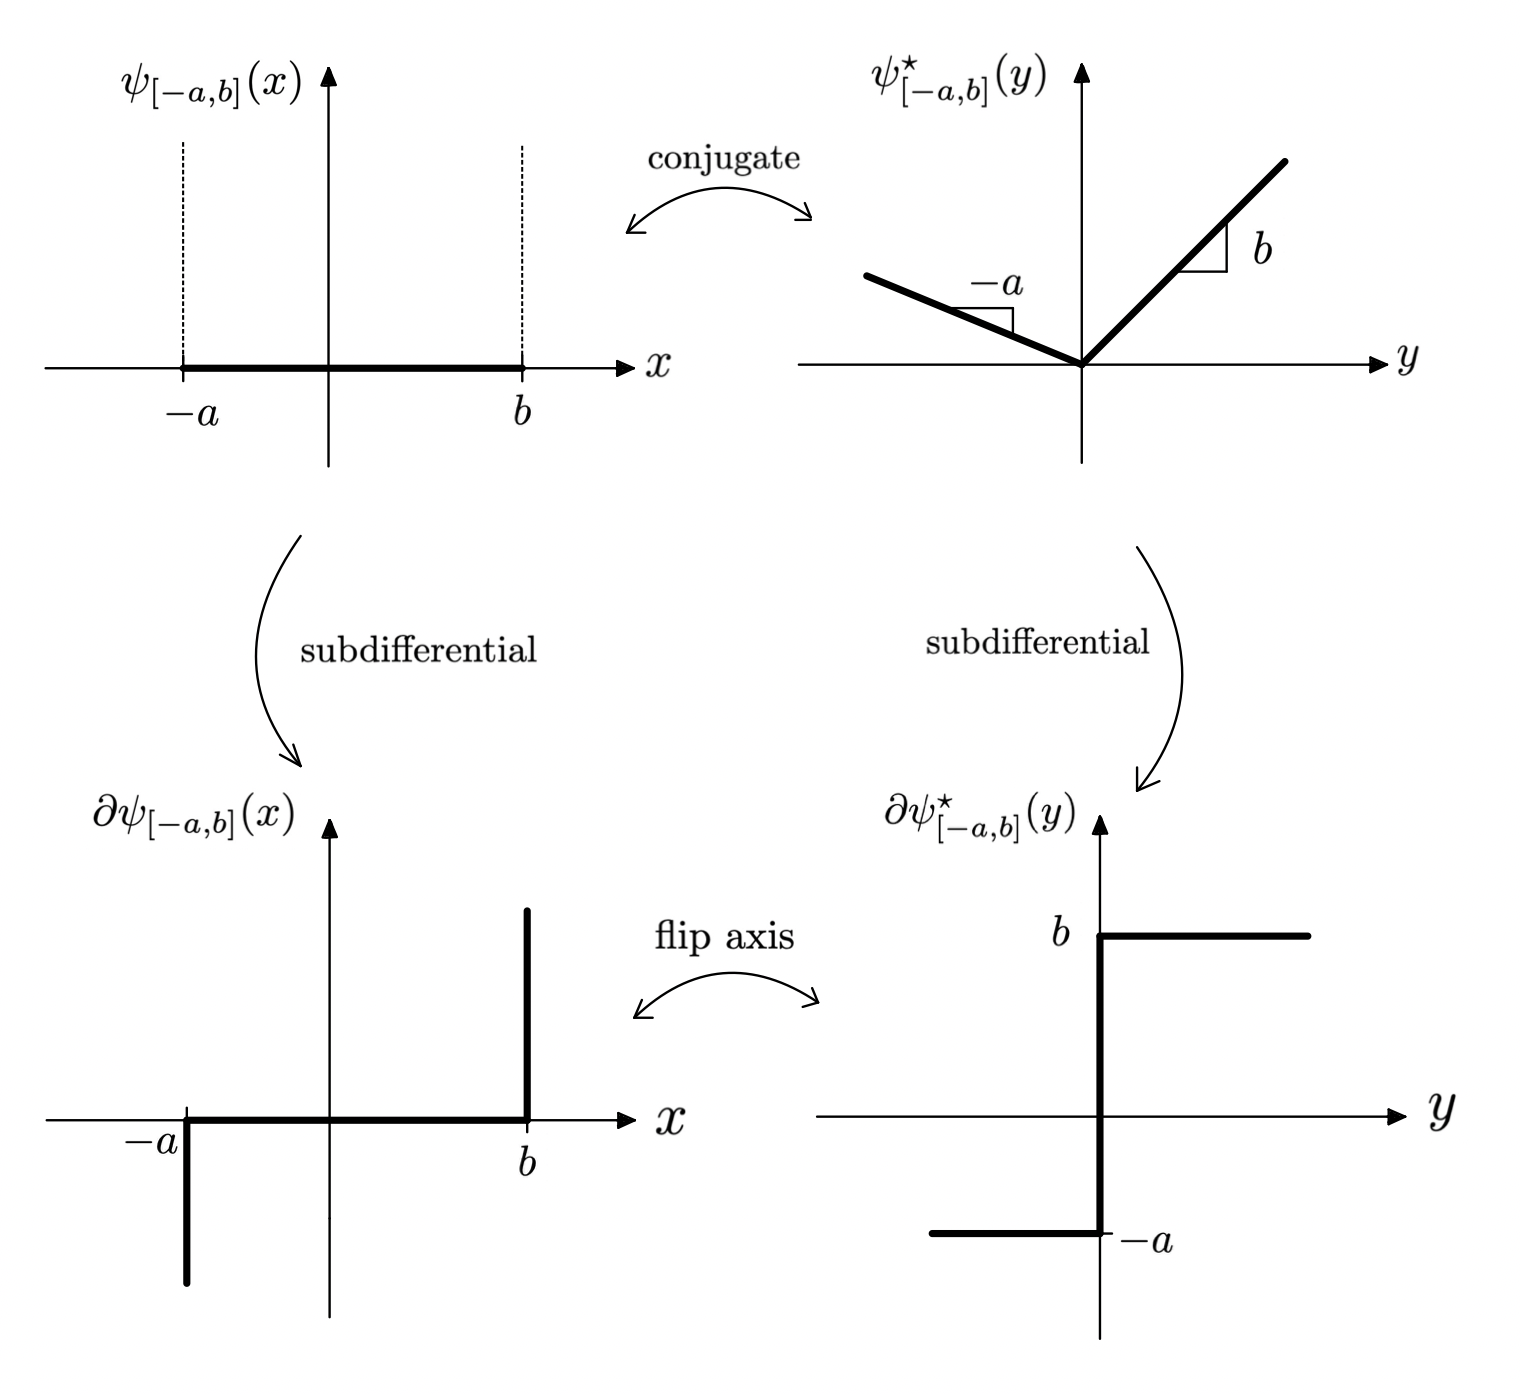
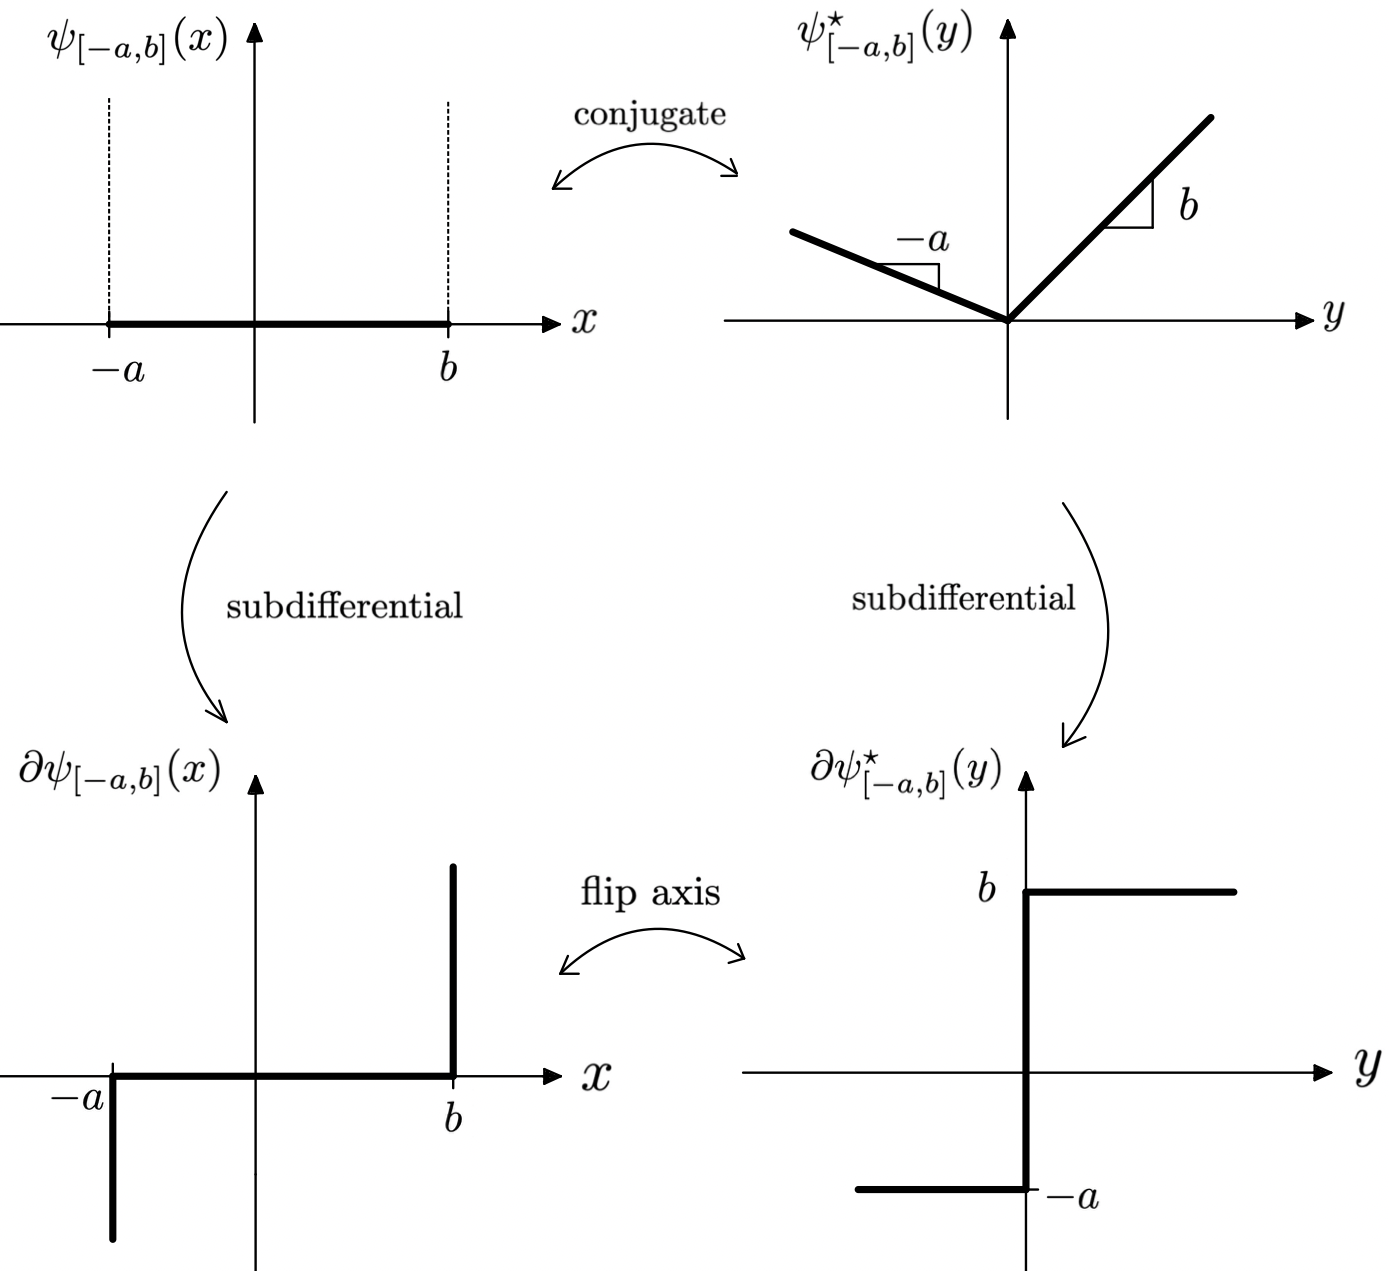
final exam

diff --git a/sections/s3-kkt-lagrange-duality.tex b/sections/s3-kkt-lagrange-duality.tex
@@ -1,17 +1,17 @@
 \section{KKT and Lagrange Duality}
 
-Basic 2d Example for derivation:
-$\min _{x \in \mathbb{R}^2} f(x)$ s.t. $h(x)=0$
-$\rightarrow$
-$\nabla f(x^\star)$, $\nabla h(x^\star)$
-co-linear
-$\Leftrightarrow$
-$\exists\ \nu^\star \in \mathbb{R}: \nabla f(x^\star)+\nu^\star\nabla h(x^\star) = 0$
-$\Leftrightarrow$
-$f(x)+\nu^\star h(x)$ is stationary at $x^\star$
-
-\subsection{Generalization for $n\rightarrow\infty$ and with constraints}
-\vspace{-5mm}
+% Basic 2d Example for derivation:
+% $\min _{x \in \mathbb{R}^2} f(x)$ s.t. $h(x)=0$
+% $\rightarrow$
+% $\nabla f(x^\star)$, $\nabla h(x^\star)$
+% co-linear
+% $\Leftrightarrow$
+% $\exists\ \nu^\star \in \mathbb{R}: \nabla f(x^\star)+\nu^\star\nabla h(x^\star) = 0$
+% $\Leftrightarrow$
+% $f(x)+\nu^\star h(x)$ is stationary at $x^\star$
+%
+% \subsection{Generalization for $n\rightarrow\infty$ and with constraints}
+\vspace{-4mm}
 \begin{equation}
 	\text{We consider}\
 	f^\star = \inf_{x\in\mathcal{\mathbb{R}}^n}f(x)
@@ -66,8 +66,7 @@ $$\begin{aligned}
 			 & \text{(dual feasibility)}
 			\\
 			 & \lambda^{\star T} g(x^\star)=0=\nu^{\star T} h(x^\star)
-			 &
-			\text{KKT-4 }
+			 & \text{KKT-4 }
 			 & \text{(compementary slackness)}
 			\\
 		\end{aligned}$$
@@ -97,8 +96,6 @@ $f(x)\ge f(\bar{x})+\nabla f(\bar{x})\T(x-\bar{x}),\ \forall x,\bar{x}\in \mathb
 	\label{def:subdifferential}
 \end{definition}
 
-%TODO: subdifferential example?
-
 \begin{proposition}[]
 	$f$ (like D\ref{def:subdifferential}),
 	$x^\star\in\argmin_x f(x)
@@ -111,4 +108,6 @@ $f(x)\ge f(\bar{x})+\nabla f(\bar{x})\T(x-\bar{x}),\ \forall x,\bar{x}\in \mathb
 	$y \in \partial f(x) \leftrightarrow x \in \partial f^\star(y)$
 \end{proposition}
 
-\includegraphics[width=\columnwidth]{images/conjugate_subdiff.png}
+\begin{flushright}
+	\includegraphics[width=0.92\columnwidth]{images/conjugate_subdiff.png}
+\end{flushright}

diff --git a/sections/s2-convex-set-function.tex b/sections/s2-convex-set-function.tex
@@ -2,10 +2,13 @@
 
 \begin{definition}[Convex Set]
 	A set $\mathcal{C}$ is convex if and only if
-	$\theta x + (1-\theta)y \in \mathcal{C}$,
-	$\forall\ x,y \in \mathcal{C}$,
-	$\forall\ \theta \in [0,1]$
+	\vspace{-1mm}
+	$$\theta x + (1-\theta)y \in \mathcal{C}
+		\forall\ x,y \in \mathcal{C},\quad
+		\forall\ \theta \in [0,1]$$
+	\vspace{-3mm}
 \end{definition}
+\vspace{-1mm}
 
 (hyperplane $\parallel$ half-space)
 $\{x \in \mathbb{R}^n \mid a\T x(=\parallel\le)b\}$
@@ -45,15 +48,12 @@ $\Rightarrow \{x\in\mathbb{R}^{n} \mid  Ax+b\in\mathcal{C}\}$ cv
 
 \textbf{Idea} represent any cl,cv set by its supporting hyperplanes
 \[\begin{aligned}
-		\vspace{-2mm}
 		\sigma_\mathcal{C}(a) & = \sup_{x \in \mathcal{C}}a\T x
 		\quad\text{if known, one can construct}                                                                                                        \\
-		\vspace{-2mm}
 		\mathcal{C}           & = \bigcap_{a \in \mathbb{R}^n} \{x \in \mathbb{R}^n \mid a\T x - \sigma_c(a) \leq 0\}                                  \\
-		\vspace{-2mm}
 		                      & = \{x \in \mathbb{R}^n \mid \underset{a \in \mathbb{R}^{n}}{\operatorname{sup}}\ a\T x - \sigma_\mathcal{C}(a) \le 0\}
-		\vspace{-2mm}
 	\end{aligned}\]
+\vspace{-2mm}
 
 \begin{definition}
 	$f:\mathbb{R}^n \rightarrow \mathbb{R}$ cv
@@ -112,8 +112,6 @@ $\Rightarrow$
 maximizer of sup satisfies
 $\nabla_x f^* = 0$
 
-\includegraphics[width=\columnwidth]{images/summary_set_functions.png}
-
 \begin{theorem}[Conjugate of Conjugate]
 	$f:\mathbb{R}^{n}\rightarrow\bar{\mathbb{R}}$
 
@@ -122,3 +120,5 @@ $\nabla_x f^* = 0$
 
 	(ii) $f(x)\ge f^{**}(x), \forall x\in\mathbb{R}^{n}$
 \end{theorem}
+
+\includegraphics[width=\columnwidth]{images/summary_set_functions.png}

diff --git a/sections/s1-introduction.tex b/sections/s1-introduction.tex
@@ -7,9 +7,10 @@ Problem of dimension $n$ but iterations $\ll n$ desired
 One of the only problem classes that are \textquote{solvable}
 
 \textbf{Optimization}
-with decision variable $x$, objective function $f$ and
-feasible set $\mathcal{C} = \{\xi \in \mathbb{R}^{n}: g(\xi)\le0,\ h(\xi)=0\}$
+of objective function $f$ with decision variable $x$
+considering feasible set $\mathcal{C} = \{\xi \in \mathbb{R}^{n}: g(\xi)\le0,\ h(\xi)=0\}$
 
+\includegraphics[width=\columnwidth]{images/head-image.jpg}
 \textbf{Local minimum}
 $x^\star$ if $\exists\epsilon>0$ s.t. $f(x^\star)\leq f(x)$,
 $\forall x \in \mathcal{C} \cap B_\epsilon(x^\star)$,
@@ -18,11 +19,11 @@ $B_\epsilon(x^\star):=\{\xi\in\mathbb{R}^{n}:|\xi-x^\star|<\epsilon\}$
 
 \begin{proposition}
 	$f$ (lower-semi-)continuous,
-	$f(x)\rightarrow\infty$
-	for $|x|\rightarrow\infty$,
+	radially unbounded,
+	% $|x|\rightarrow\infty\Rightarrow f(x)\rightarrow\infty$,
 	$\mathcal{C}$ closed
-	$\Rightarrow$ \exists\ of OP with:
-	$\min_{x \in \mathcal{C}} f(x)\ \text{and}\ x^\star\in\argmin_{x \in \mathcal{C}}f(x)$
+	$\Rightarrow\exists$
+	$	\min_{x \in \mathcal{C}} f(x)\ \text{and}\ x^\star\in\argmin_{x \in \mathcal{C}}f(x)$
 \end{proposition}
 
 
@@ -55,11 +56,15 @@ $f$ is $l^\infty$-Lipschitz with constant $L$
 \begin{definition}
 	$q:\mathbb{R}^{n}\rightarrow\mathbb{R}$
 	convex (affine) if $\forall\ x, y \in \mathbb{R}^{n}$
-	\vspace{-2mm}
+	\vspace{-1mm}
 	$$q(\theta x+(1−\theta)y)\le\theta q(x)+(1−\theta)q(y)\quad\forall\ \theta \in [0, 1]$$
-	\vspace{-4mm}
+	\vspace{-3mm}
 \end{definition}
 \vspace{-1mm}
 \begin{proposition}
-	If OP convex, local minimum == global minimum
+	OP convex
+	$\Rightarrow$
+	local minimum $=$ global minimum
 \end{proposition}
+
+

diff --git a/sections/why-s6-gradient-methods-2.tex b/sections/why-s6-gradient-methods-2.tex
@@ -60,15 +60,16 @@ $N\sim L|x^\star-x_0|^2/\epsilon$
 iterations
 
 \begin{proposition}[Subgradient Method]
-	cl, cv $\mathcal{C}$
-	contained in ball of radius $R$,
-	$x_{0..N-1}$ satisfy
+	$\mathcal{C}_{cl,cv}$
+	contained in $B_R$
+	\vspace{-2mm}
+	$$x_{k+1} = \operatorname{prox}_\mathcal{C}(x_k-Tg_k),
+		g_k\in\partial f(x_k),
+		\vspace{-2mm}
+		T = R/(L_f\sqrt{N})$$
+	$\Rightarrow x_{0..N-1}$ satisfy
 	$f(\frac{1}{N}\sum_{k=0}^{N-1})-f(x^\star)$
 	$\le\frac{RL_f}{\sqrt{N}}$
-	under
-	$x_{k+1} = \operatorname{prox}_\mathcal{C}(x_k-Tg_k)$
-	$g_k\in\partial f(x_k)$,
-	$T = \frac{R}{L_f\sqrt{N}}$
 \end{proposition}
 
 \begin{tabular}{|c|c|c|c|}
@@ -81,3 +82,29 @@ iterations
 	$L$-Lip, cmp set & Subgradient     & $1/\epsilon^2$                   & Yes     \\ \hline
 \end{tabular}
 
+\textbf{Example}
+project $a$  on $l_1$-B:
+$\min_{x \in \mathbb{R}^{n}}\frac{1}{2}|x-a|_2^2$ s.t.$|x|_1\le 1$
+$\mathcal{L}(x,\lambda)=\frac{1}{2}|x-a|_2^2 +\lambda|x|_1-\lambda$
+
+$=\sum_{k=1}^{n}(\frac{1}{2}(x_k-a_k)^2+\lambda|x|_1)-\lambda$
+
+$d_k(\lambda)=\inf_{x_k\in\mathbb{R}}\phi(x_k)
+	=\inf_{x_k\in\mathbb{R}}
+	(\frac{1}{2}(x_k-a_k)^2+\lambda|x|_1)$
+
+$\partial\phi(x_k)=x_k-a_k+\lambda s,
+	s(x_k=0:[1-1],else: sign(x_k))$
+
+$d_k(\lambda) = \{\lambda\le|a_k|:\frac{1}{2}\lambda^2+\lambda|a_k|,
+	else: \frac{1}{2}a_k^2\}$,
+
+$\nabla d_k(\lambda) = \max\{|a_k|-\lambda,0\}$
+
+Dual: $\max d(\lambda)$ s.t. $\lambda\ge0$
+with
+$d(\lambda)=\sum_{n}^{k=1}d_k(\lambda)-\lambda$
+
+$x_k=\{\lambda\ge|a_k|:0;|ak|>0:a_k-\lambda, |ak|<0:a_k+\lambda\}$
+
+\vspace{1mm}

diff --git a/sections/s9-distributed-optimization-admm.tex b/sections/s9-distributed-optimization-admm.tex
@@ -3,7 +3,7 @@
 
 \textbf{Goal}
 Solve s.t. each term can be handled by its own processor.
-
+\vspace{-2mm}
 \begin{equation}
 	\min_{x_1..,x_N, z \in \mathbb{R}^{n}}
 	\sum_{i = 1}^{N} f_i(x_i)
@@ -12,9 +12,15 @@ Solve s.t. each term can be handled by its own processor.
 	\label{eq:sum_distributed}
 \end{equation}
 
+\begin{center}
+	\includegraphics[width=0.92\columnwidth]{images/distributed.png}
+
+	(Distributed ADMM)
+\end{center}
 \subsection{Global Consensus Problem}
 
-Step 1: Augmented Lagrangian $i\in[1,N]$
+Step 1: Augmented Lagrangian% $i\in[1,N]$
+\vspace{-2mm}
 to solve (\ref{eq:sum_distributed}) with ADMM.
 
 $$\begin{aligned}
@@ -43,7 +49,6 @@ $$\begin{aligned}
 
 FURTHER REFORMULATIONS...
 
-\includegraphics[width=0.8\columnwidth]{images/distributed.png}
 
 \subsection{Sharing Problem}
 
@@ -76,3 +81,8 @@ Step 1: Augmented Lagrangian
 Step 2: Form the Algorithm
 
 ALGORITHM
+\begin{align*}
+	x_i^{k+1}       & = \arg\min_{x_i \in \mathbb{R}^n} f_i(x_i) + \frac{d_i}{2} \left| x_i - \frac{1}{2} (x_i^k - \bar{x}_i^k) + \frac{1}{\rho} p_i^k \right|^2, & \text{(local update)}                  \\
+	\bar{x}_i^{k+1} & = \frac{1}{d_i} \sum_{j \in \mathcal{N}_i} x_j^{k+1},                                                                                       & \text{(communication with neighbours)} \\
+	p_i^{k+1}       & = p_i^k + \frac{\rho}{2} (x_i^{k+1} - \bar{x}_i^{k+1}),                                                                                     & \text{(local update)}
+\end{align*}

diff --git a/sections/s5-gradient-methods-1.tex b/sections/s5-gradient-methods-1.tex
@@ -117,7 +117,7 @@ $\beta=0$
 			\frac{L+\mu}{2}(1-1/\sqrt{\kappa})^{N}|q_0-q^\star|^2
 		\end{aligned}\]
 \end{theorem}
-\vspace{-2mm}
+\vspace{-1mm}
 
 Requires
 $N\ge2\sqrt{\kappa}\operatorname{ln}(\frac{|q_{0}-q^\star|}{\epsilon})$
@@ -137,7 +137,3 @@ $|x_{N}-x^\star|\le\epsilon$
 \textbf{Line search}
 optimal step
 $\nu_t^*=\argmin_{\nu\in\mathbb{R}}f(x_t-\nu\nabla f(x_t))$
-
-\textbf{Adaptive Methods}
-gradient, momentum to adjust stepsize
-\includegraphics[width=.95\columnwidth]{images/sublinear.png}

diff --git a/sections/s7-stochastic-gradient-descent.tex b/sections/s7-stochastic-gradient-descent.tex
@@ -75,7 +75,7 @@ Same analysis holds,
 But run SGD with $T/n{mb}$ to get same result...
 Advantage in computation if paralellization possible!
 
-\textbf{Can we do non-(strongly-)convex functions? }
+\subsection{Non-(Strongly-)Convex Functions}
 
 \begin{proposition}
 	F, $L$-sm, SGD with

diff --git a/sections/s12-adaptive-decision-making.tex b/sections/s12-adaptive-decision-making.tex
@@ -1,3 +1,8 @@
-\section{Adaptive decision-making}
+\section{Adaptive decision-making (or Random)}
 
 :D
+
+\includegraphics[width=.95\columnwidth]{images/sublinear.png}
+
+
+\includegraphics[width=.95\columnwidth]{images/guess_gradient.png}

diff --git a/sections/s4-convex-optimization-problems.tex b/sections/s4-convex-optimization-problems.tex
@@ -80,9 +80,7 @@ LP$\subset$ QP $\subset$ QCQP
 \footnotesize
 $\subset$ SOCP $\subset$ SDP
 
-%TODO: r4, sum of squares, geometric programming, SOS for liapunov
-
-
+% \includegraphics[width=\columnwidth]{images/problem_class.png}
 
 
 

diff --git a/sections/s10-signal-denoising-regression.tex b/sections/s10-signal-denoising-regression.tex
@@ -27,7 +27,7 @@ $\phi_\text{Hub}(u) =
 		\ u^2     & \text{if }|u|\le M \\
 		\ 2Mu-M^2 & \text{if }|u|>M
 	\end{cases}$
-
+\vspace{2mm}
 
 \subsection{Modern setting}
 
